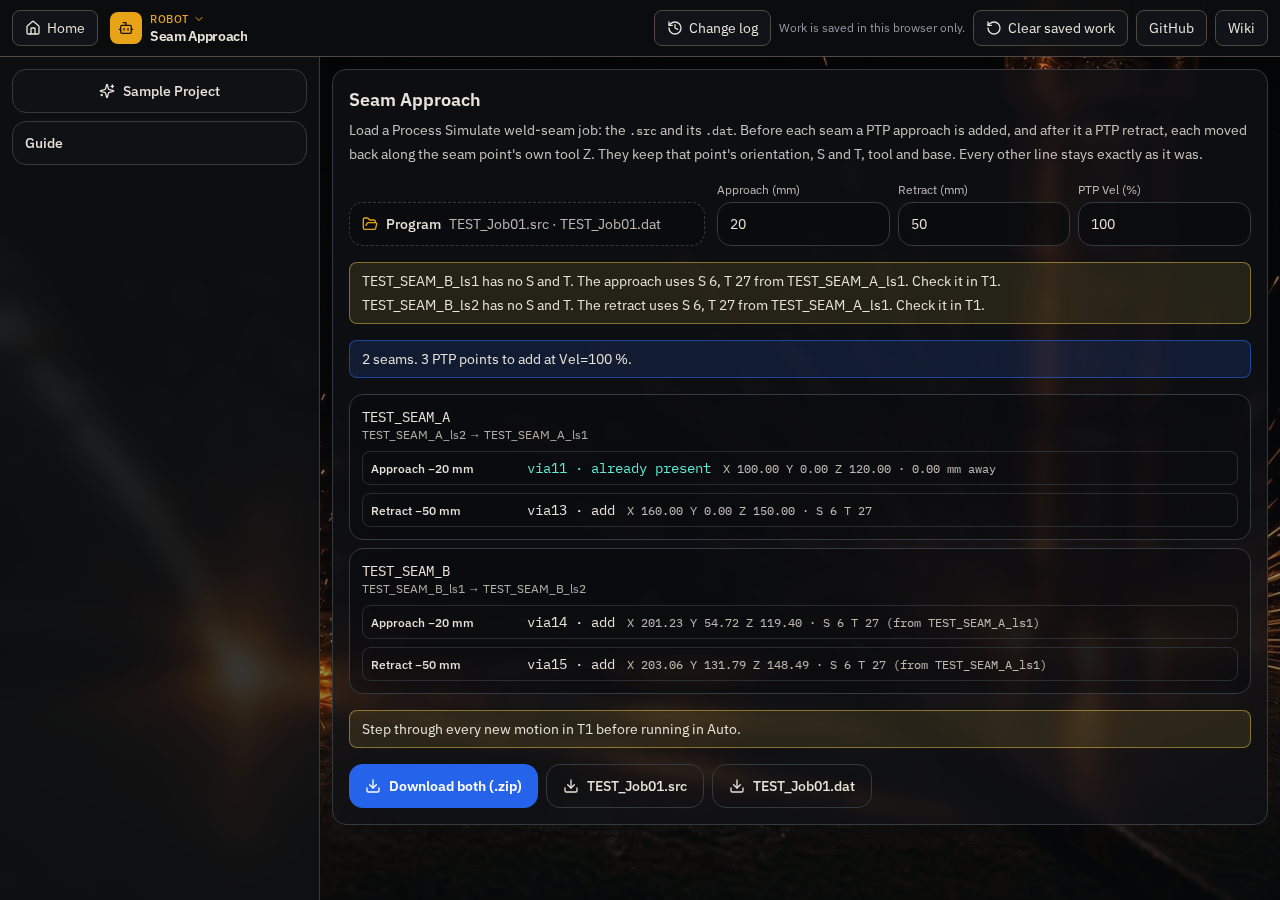
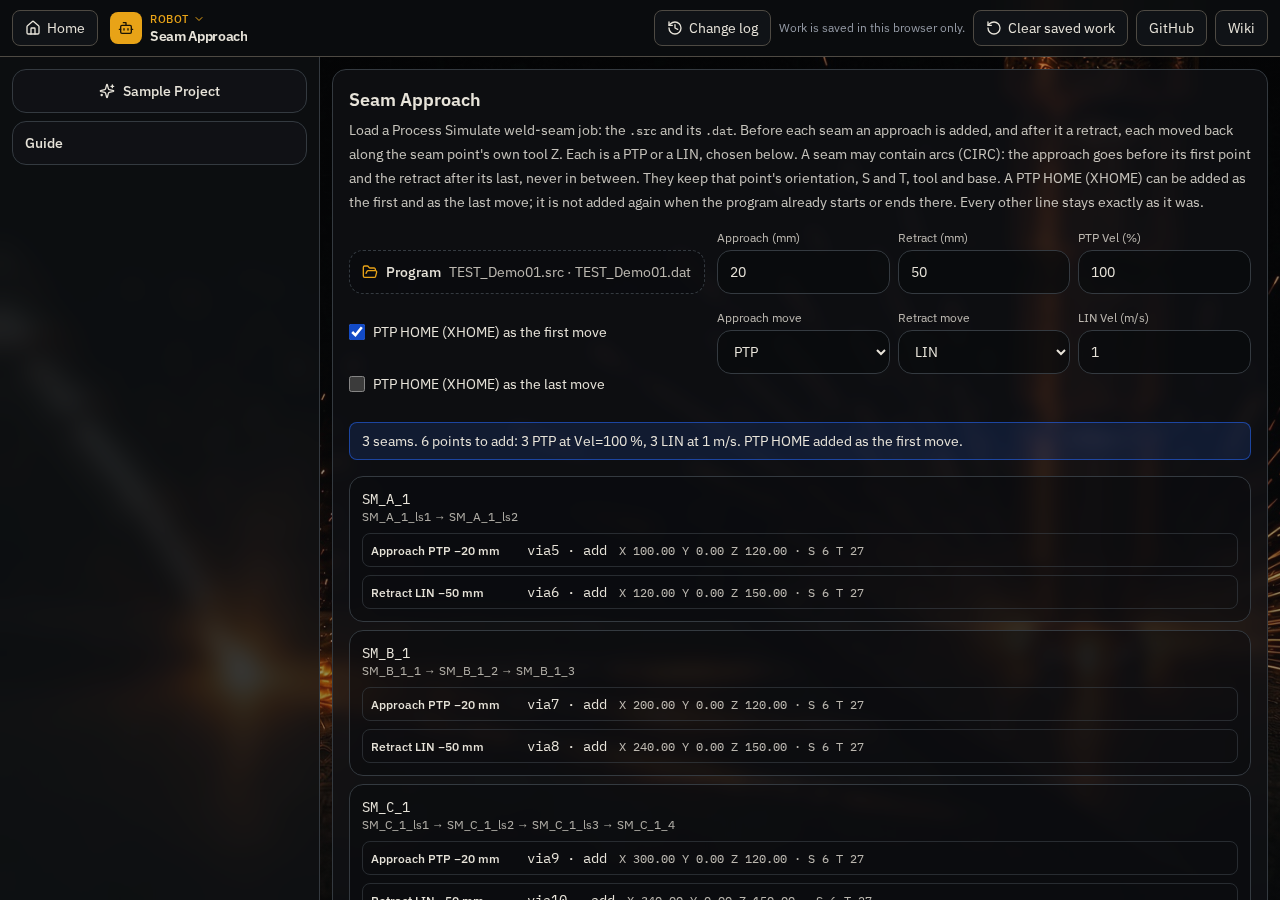
GTAC VC Tools: Seam Approach reads _<N> seam names, PTP or LIN approach and retract, PTP HOME first and last

Changed region(s): [[0.25, 0.1244, 1.0, 0.9644], [0.4062, 0.9956, 0.6875, 1.0], [0.2812, 0.9956, 0.375, 1.0]]

diff --git a/GTAC VC Tools/GTAC VC Tools.md b/GTAC VC Tools/GTAC VC Tools.md
@@ -152,16 +152,17 @@ Before Download, each program's changed lines show, removed in red and added in 
 
 ![Seam Approach with a made-up job](./images/seam-approach.png)
 
-Add a PTP approach before and a PTP retract after each weld seam of a Process Simulate job. Choose or drop the .src and its .dat together on Program on the page. A seam is a run of LIN points and arcs (CIRC) whose names share a start and end _ls1, _ls2 and so on; the program's own order is kept, so a seam can run ls2 then ls1, or ls6 down to ls1. An arc counts by its end point (CIRC Xaux, Xend), and its auxiliary point is part of the seam too. Names must match exactly up to _ls: SEAM_L_1_ls1 and SEAM_1_1_ls1 are two seams. A PTP, a point without an _ls name, or a different name ends a seam.
+Add an approach before and a retract after each weld seam of a Process Simulate job, each a PTP or a LIN, and, when asked, a PTP HOME as the first and the last move. Choose or drop the .src and its .dat together on Program on the page. A seam is a run of LIN points and arcs (CIRC) whose names share a start and end _ls1, _ls2 or just _1, _2 and so on; the two endings may mix in one seam (SEAM_1_ls5 then SEAM_1_6). The program's own order is kept, so a seam can run ls2 then ls1, or ls6 down to ls1. An arc counts by its end point (CIRC Xaux, Xend), and its auxiliary point is part of the seam too. Names must match exactly up to the number: SEAM_L_1_ls1 and SEAM_1_1_ls1 are two seams. A PTP, a point without a number at the end, or a different name ends a seam. A run named only _1, _2 needs at least two moves, so a lone LIN such as AIR_1 is not a seam.
 
-- The approach goes before the first point of the seam and the retract after its last point, never between the points of a seam or between an arc's auxiliary and end points. The approach is the first seam point moved back 20 mm along its own tool Z, and the retract is the last seam point (the end point when the seam ends on an arc) moved back 50 mm, as the frame product point : {X 0,Y 0,Z -20,A 0,B 0,C 0}. Both are PTP at 100 %. Approach (mm), Retract (mm) and PTP Vel (%) change them.
-- Each new point keeps the seam point's orientation, S and T, external axes, FDAT (tool, base and IPO_FRAME, #TCP for an external TCP) and the Tool and Base text of its fold. The fold is a full PTP inline form in the style of the program's own PTP vias, including CONT and C_DIS.
+- The approach goes before the first point of the seam and the retract after its last point, never between the points of a seam or between an arc's auxiliary and end points. The approach is the first seam point moved back 20 mm along its own tool Z, and the retract is the last seam point (the end point when the seam ends on an arc) moved back 50 mm, as the frame product point : {X 0,Y 0,Z -20,A 0,B 0,C 0}. Both are PTP at 100 % by default. Approach move and Retract move each choose PTP or LIN, on their own; a LIN goes at LIN Vel (m/s, 1 by default). Approach (mm), Retract (mm), PTP Vel (%) and LIN Vel (m/s) change them.
+- Each new point keeps the seam point's orientation, S and T, external axes, FDAT (tool, base and IPO_FRAME, #TCP for an external TCP) and the Tool and Base text of its fold. The fold is a full PTP or LIN inline form in the style of the program's own folds, including CONT and C_DIS. A PTP takes the PDAT of the program's PTP before the seam; a LIN takes the LDAT of the seam's own LIN (or the nearest LIN), with the same fields the program uses.
 - A seam that starts with an arc gets no approach, because an arc starts from the point before it; an amber note says so, and the preview shows not added. Its retract is added as usual.
 - When a seam point has no S and T, the nearest earlier point that has them is used and an amber note says which. With none at all, the point has no S and T and the note says so.
-- New points are named from the next free viaNNN after the highest one in the files. Their E6POS, FDAT and PDAT go at the end of the .dat, before ENDDAT, in program order. KRL names are at most 24 characters.
+- New points are named from the next free viaNNN after the highest one in the files. Their E6POS, FDAT and PDAT (LDAT for a LIN) go at the end of the .dat, before ENDDAT, in program order. KRL names are at most 24 characters.
 - When the point just before a seam is already within 0.5 mm of the approach, or the point just after it is within 0.5 mm of the retract, the preview shows already present (in teal) and nothing is added there. Running the tool again on its own output adds nothing.
 - The preview lists each seam, its points, and each approach and retract with its name, X Y Z, and S and T. Every other line downloads byte for byte with the same line endings (CRLF stays CRLF). Download both (.zip) saves the pair; the two buttons beside it save the .src or the .dat with its own file name.
 - A .dat that belongs to another program (its DEFDAT does not match the DEF), a seam point missing from the .dat, or folds that do not close stop the change with a red note, and nothing is saved.
+- PTP HOME (XHOME) as the first move and PTP HOME (XHOME) as the last move are two tick boxes, off by default. Each adds the standard KUKA PTP HOME inline form (PDAT_ACT=PDEFAULT, FDAT_ACT=FHOME, $H_POS=XHOME, PTP XHOME) before the program's first move or after its last, at PTP Vel. XHOME, FHOME and PDEFAULT are the robot's own from $config.dat, so nothing is added to the .dat. When the first or last move already goes to HOME (PTP XHOME, PTP XHOME1, PTP $H_POS, or a fold such as PTP HOME or PTP AXIS : XHOME), nothing is added there and a teal note says so.
 - Step through every new motion in T1 before running in Auto.
 
 ### Fix S/T
